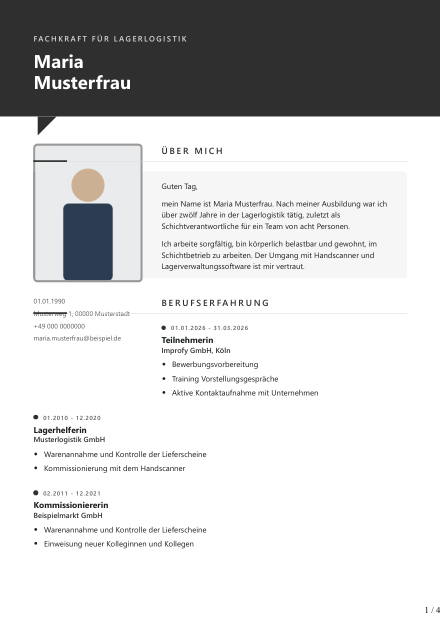
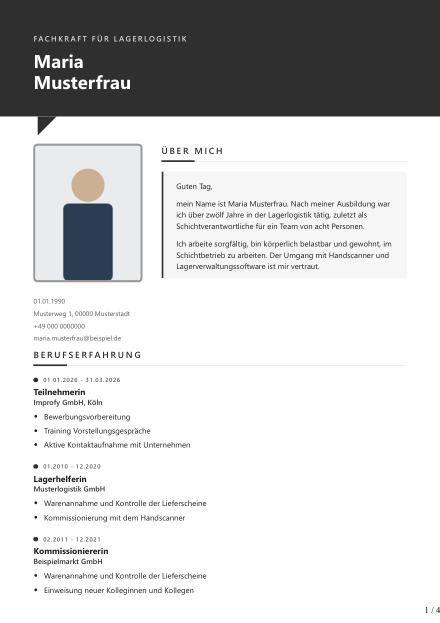
Eine Pruefung fuer die Seitengeometrie - und sechs Fehler, die sie gefunden hat
Der Anlass: Dreimal hintereinander ist mir ein Layoutfehler durchgegangen und erst dem
Nutzer am Bildschirm aufgefallen. Die Pruefungen zaehlten nur, **ob** Text im PDF steht,
nicht **wo**. Das war die Luecke.

seitenpruefung.py prueft jetzt am fertigen PDF drei Regeln:
  Rand    Kein Text ragt in den Seitenrand.
  Text    Keine zwei Textbloecke liegen uebereinander.
  Formen  Keine farbige Flaeche ragt teilweise in einen Textblock. Ein Hintergrund
          umschliesst seinen Text ganz (weisse Schrift auf Band); eine Form, die nur
          eine Ecke eines Wortes beruehrt, ist immer ein Unfall.
Geprueft wird gegen die Kaesten der Buchstaben, nicht der Absaetze - sonst schlaegt die
feine Fuehrungslinie zwischen "PERSISCH" und "flieszend" faelschlich an.

Die Pruefung ist gegengeprueft: mit absichtlich wieder eingebauten Fehlern schlaegt sie
an, mit dem jetzigen Stand nicht. Sie laeuft in cv_probe.py bei allen 69 Durchgaengen.

Was sie gefunden hat:

1. Die Fotospalte war ein Float. Ein Float laesst nur den *Text* ausweichen, nicht den
   Kasten - jeder Block lief mit seinem Hintergrund darunter durch. Daher die
   Zeitstrahl-Marke auf der Telefonnummer, die Linie durch das Geburtsdatum und die
   getoente Flaeche unter der Anschrift. Das waren nicht drei Fehler, sondern einer.
   Jetzt eine Tabelle mit zwei Zellen: es gibt kein Darunter mehr.

2. `overflow: hidden` am Kopf der Ecken-Vorlagen brachte Chrome dazu, den Kopf **nicht
[…]

diff --git a/templates/cv_designs/cv_skin.html b/templates/cv_designs/cv_skin.html
@@ -68,7 +68,14 @@ table.seite > thead td { padding-bottom: {{ '13mm' if skin.kopfform == 'band' el
 .blatt { padding: 0 16mm 4mm 44mm; }
 
 {% elif skin.kopfform == 'ecke' %}
-.kopf { padding: 15mm 16mm 10mm; overflow: hidden; }
+/* `clip-path` statt `overflow: hidden`. Beides beschneidet die ueberstehenden Kreise -
+   aber `overflow: hidden` im Tabellenkopf bringt Chrome dazu, den Kopf **nicht mehr zu
+   wiederholen**. Ab Seite 2 stand dann gar kein Kopf mehr da, und die erste Ueberschrift
+   klebte bei 0,6 pt an der Blattkante. (18.09.2026, gefunden von seitenpruefung.py.) */
+/* Der Kopf wiederholt sich auf **jeder** Seite - jeder Millimeter hier kostet vier
+   Seiten lang Platz. Bei viel Inhalt blieben dadurch 120 Zeichen auf einem vierten
+   Blatt uebrig. Deshalb knapper als die uebrigen Kopfformen. */
+.kopf { padding: 11mm 16mm 7mm; clip-path: inset(0); }
 .kopf::before { content: ""; position: absolute; right: -18mm; top: -28mm;
                 width: 72mm; height: 72mm; border-radius: 50%; background: var(--farbe2); }
 .kopf::after { content: ""; position: absolute; left: -14mm; top: -20mm;
@@ -186,8 +193,7 @@ h3 { color: var(--text); font-size: 9.5pt; font-weight: 700; letter-spacing: .16
 .paar .was { font-size: 10pt; }
 /* Bewertungen stehen rechtsbuendig untereinander - eine ruhige Kante statt einer
    Treppe, die der Laenge der Woerter folgt. */
-.paare { display: grid; grid-template-columns: 1fr auto; gap: 1.6mm 5mm;
-         align-items: center; }
+.paare { display: grid; grid-template-columns: 1fr auto; gap: 1.6mm 5mm; }
 .paar.zeile { display: contents; }
 .sprachzeile { display: flex; align-items: baseline; gap: 3mm; margin-bottom: 1.4mm; }
 .sprachzeile .sp { text-transform: uppercase; color: var(--farbe); font-weight: 600;
@@ -218,12 +224,24 @@ h3 { color: var(--text); font-size: 9.5pt; font-weight: 700; letter-spacing: .16
 .quali-raster > .spalte { min-width: 0; }
 .quali-raster .spalte > h3:first-child { margin-top: 0; }
 .spalte { break-inside: avoid; }
-.paare > *, .paar .was { min-width: 0; overflow-wrap: anywhere; }
+.quali-raster ul.knapp { margin: 0 0 0 4.5mm; }
+/* `anywhere` bricht mitten im Wort - "Kommunikationsfaehig / keit" - und die Bewertung
+   der Zeile blieb auf halber Hoehe stehen, also auf der zweiten Zeile des Wortes.
+   `break-word` bricht erst, wenn es wirklich nicht anders geht, `align-items: start`
+   haelt die Bewertung auf der ersten Zeile. */
+.paare { align-items: start; }
+.paare > * { min-width: 0; }
+/* Echte Silbentrennung statt hartem Umbruch. `break-word` schnitt mitten in die Silbe
+   ("Verantwortungsbewus / stsein") - das liest sich wie ein Druckfehler. `hyphens: auto`
+   trennt nach den deutschen Regeln und setzt einen Bindestrich; passt ein Wort trotzdem
+   nicht, faellt das der Seitenpruefung auf statt dem Arbeitgeber. */
+.paar .was { min-width: 0; overflow-wrap: normal; hyphens: auto;
+             -webkit-hyphens: auto; }
 .sprachzeile { min-width: 0; }
 .sprachzeile .sp { min-width: 0; overflow-wrap: anywhere; }
 .sprachzeile .grad { white-space: nowrap; }
 
-.kapitel { margin-bottom: 8.5mm; }
+.kapitel { margin-bottom: 7mm; }
 /* Der Abstand **hinter** dem letzten Kapitel hat nichts mehr zu trennen - er schob den
    Satzspiegel aber ueber die Seitenkante und erzwang eine dritte Seite, auf der nur
    noch der wiederholte Kopf und die Seitenzahl standen. Eine leere Seite in einem
@@ -381,20 +399,26 @@ li { margin-bottom: 1.4mm; }
           {% endfor %}
         </div>
         {% endif %}
+        {# Zusatzqualifikationen und Hobbys gehoeren ins selbe Raster. Darunter gestapelt
+           fanden sie am Seitenende keinen Platz mehr und schoben zwei Zeilen auf ein
+           viertes Blatt. Im Raster fuellen sie eine freie Spalte. #}
+        {% if d.zusatzqualifikationen or fs.vorhanden %}
+        <div class="spalte">
+          <h3>Zusatzqualifikationen</h3>
+          <ul class="knapp">
+            {% if fs.vorhanden %}<li>Führerschein{% if fs.klasse %} Klasse {{ fs.klasse }}{% endif %}</li>{% endif %}
+            {% for z in d.zusatzqualifikationen or [] %}<li>{{ z }}</li>{% endfor %}
+          </ul>
+        </div>
+        {% endif %}
+
+        {% if d.hobbys %}
+        <div class="spalte">
+          <h3>Hobbys</h3>
+          <p style="margin:0">{{ d.hobbys }}</p>
+        </div>
+        {% endif %}
       </div>
-
-      {% if d.zusatzqualifikationen or fs.vorhanden %}
-      <h3>Zusatzqualifikationen</h3>
-      <div class="eintrag"><ul>
-        {% if fs.vorhanden %}<li>Führerschein{% if fs.klasse %} Klasse {{ fs.klasse }}{% endif %}</li>{% endif %}
-        {% for z in d.zusatzqualifikationen or [] %}<li>{{ z }}</li>{% endfor %}
-      </ul></div>
-      {% endif %}
-
-      {% if d.hobbys %}
-      <h3>Hobbys</h3>
-      <p>{{ d.hobbys }}</p>
-      {% endif %}
     </section>
     {% endif %}
 </div>

diff --git a/cv_probe.py b/cv_probe.py
@@ -174,6 +174,10 @@ def pruefe(schluessel, fall_name, daten, speichern=True):
     #   Versalien – die Vorlagen setzen Überschriften groß (ZUVERLÄSSIGKEIT)
     #   Trennung  - ein langer Firmenname bricht mit Bindestrich um
     flach = " ".join(text.replace("-\n", "-").split()).casefold()
+    # Bei Silbentrennung steht im PDF „Kommunikations-\nfähigkeit". Wird nur der
+    # Zeilenumbruch entfernt, bleibt der Bindestrich stehen und das Wort gilt als
+    # verloren, obwohl es dasteht. Deshalb beide Lesarten prüfen.
+    ohne_trennung = " ".join(text.replace("-\n", "").split()).casefold()
 
     # Kommt alles wieder heraus, was hineinging?
     erwartet = []
@@ -190,7 +194,8 @@ def pruefe(schluessel, fall_name, daten, speichern=True):
     for e in daten.get("edv_kenntnisse") or []:
         erwartet.append(("EDV", e["programm"].split()[0]))
     fehlt = [f"{art} {wort}" for art, wort in erwartet
-             if wort and wort.casefold() not in flach]
+             if wort and wort.casefold() not in flach
+             and wort.casefold() not in ohne_trennung]
 
     if speichern:
         os.makedirs(AUSGABE, exist_ok=True)
